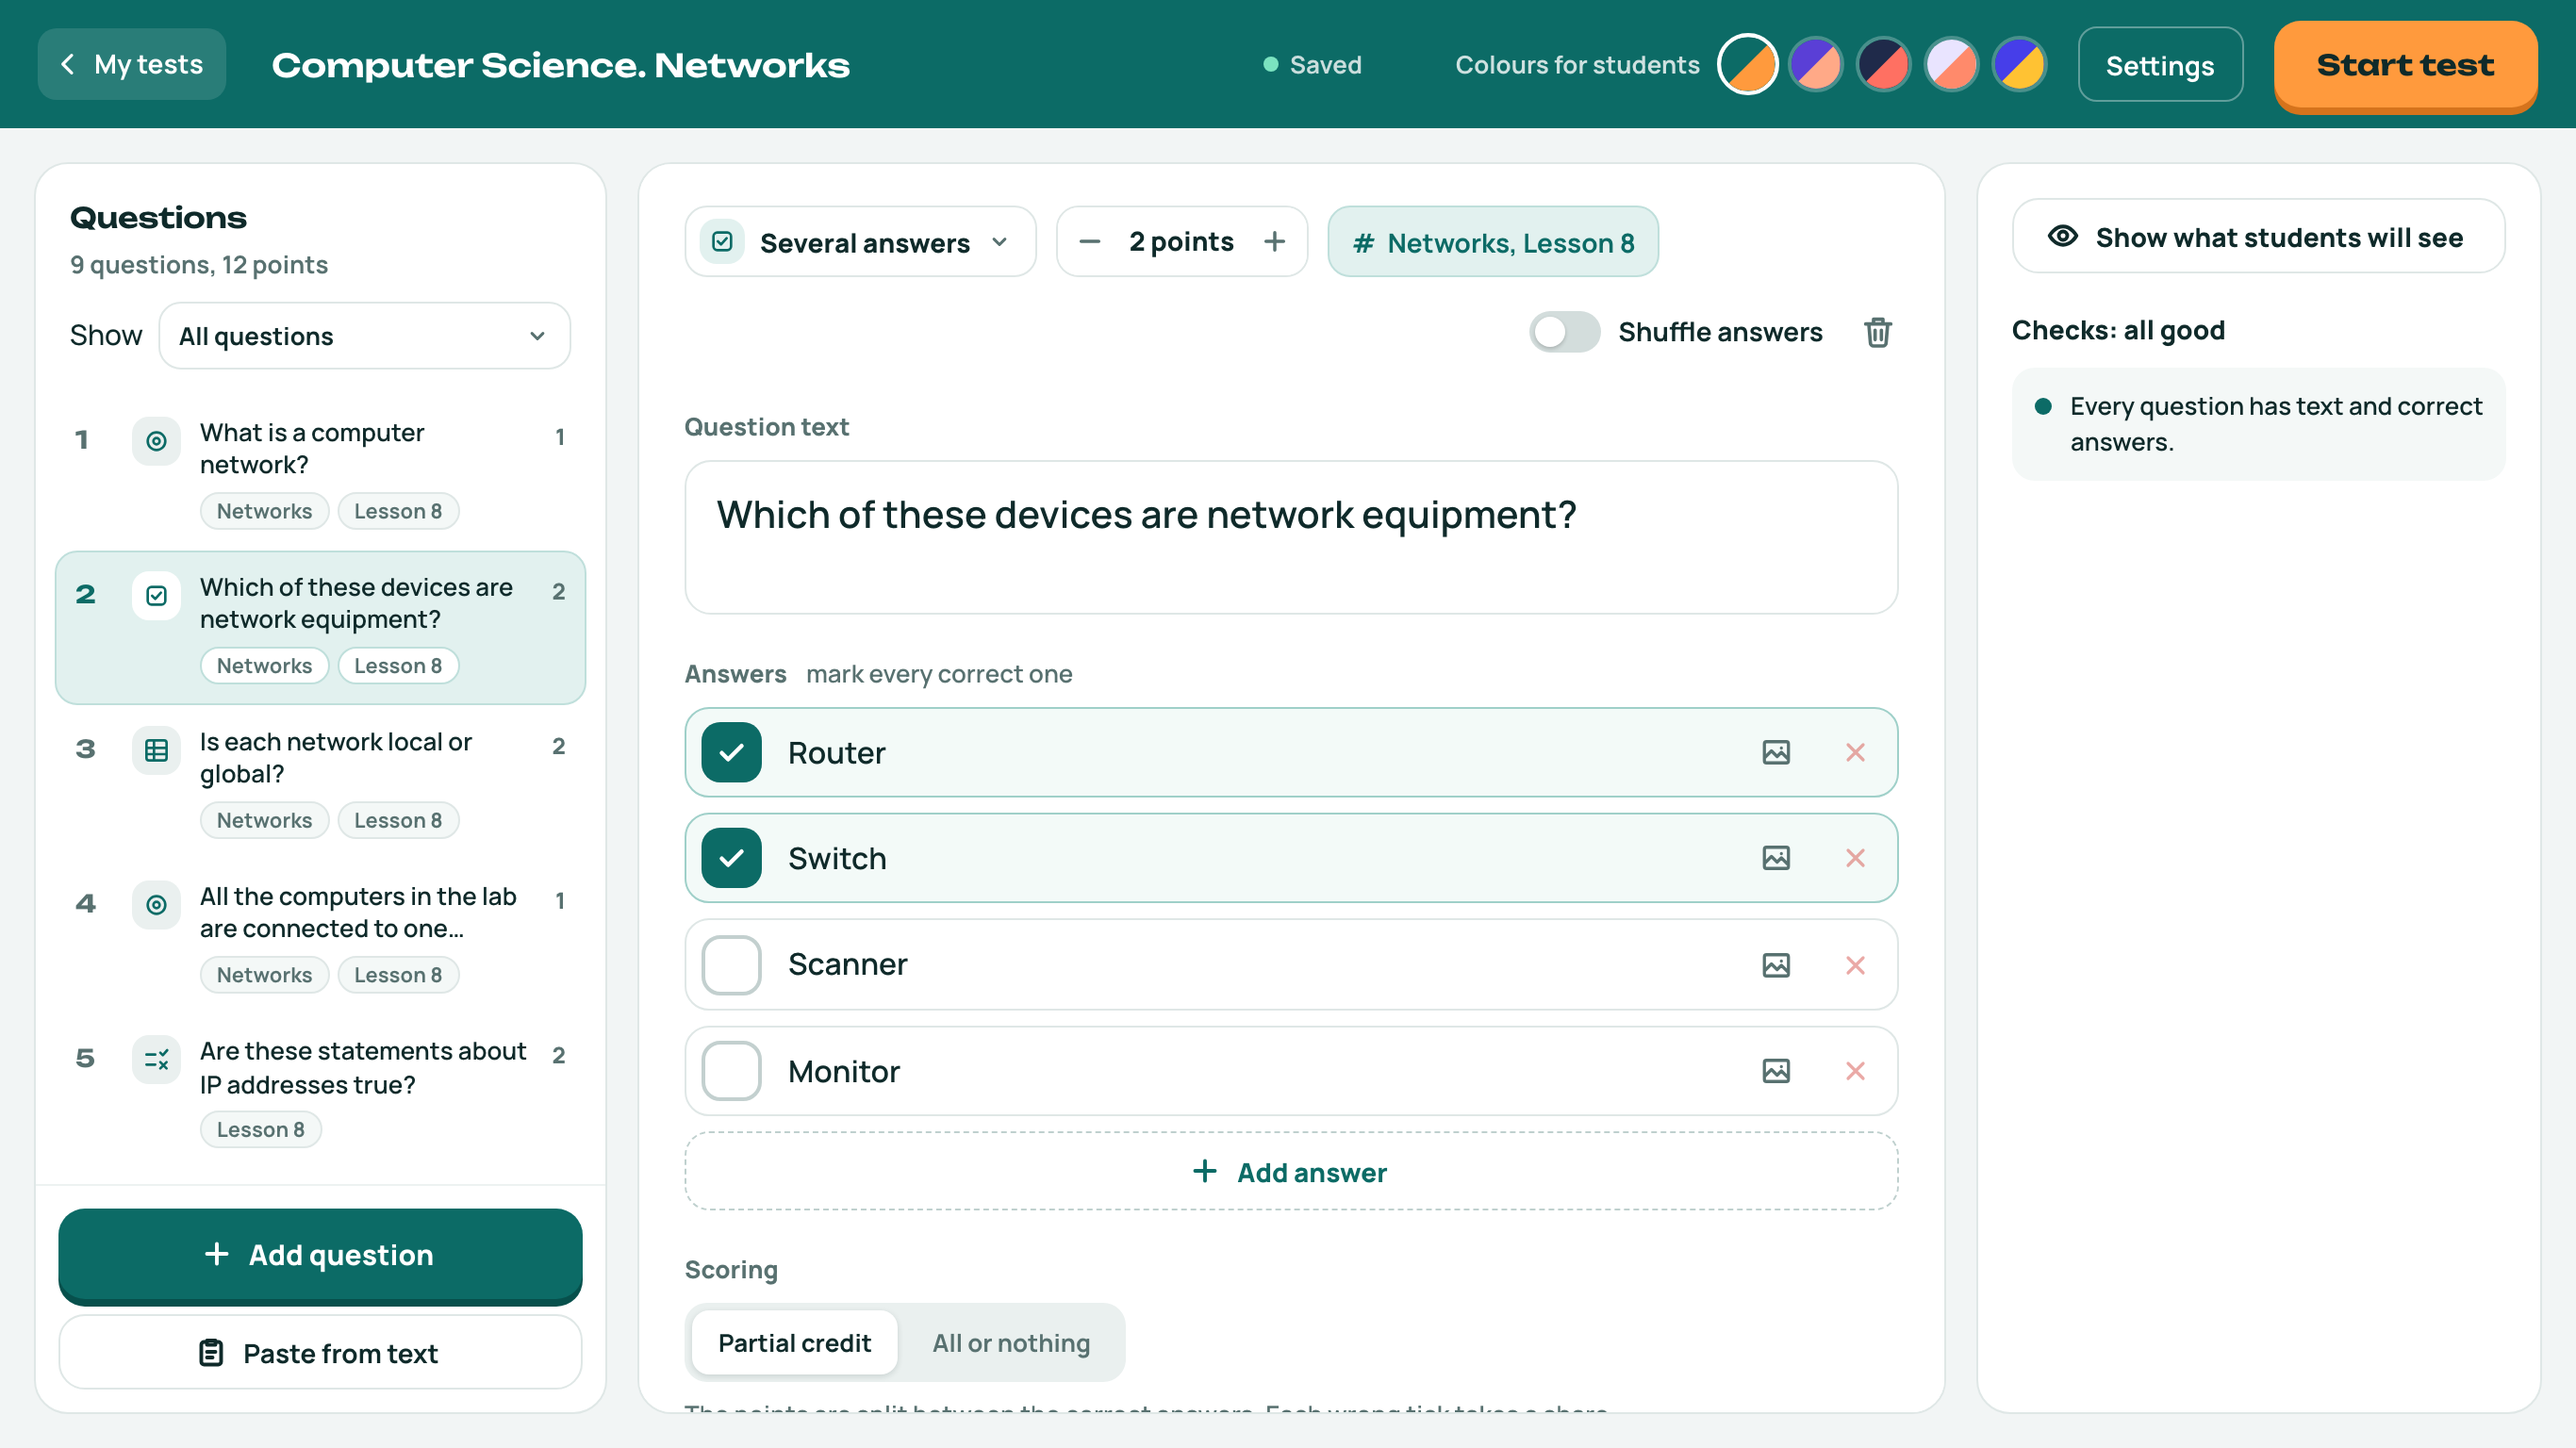
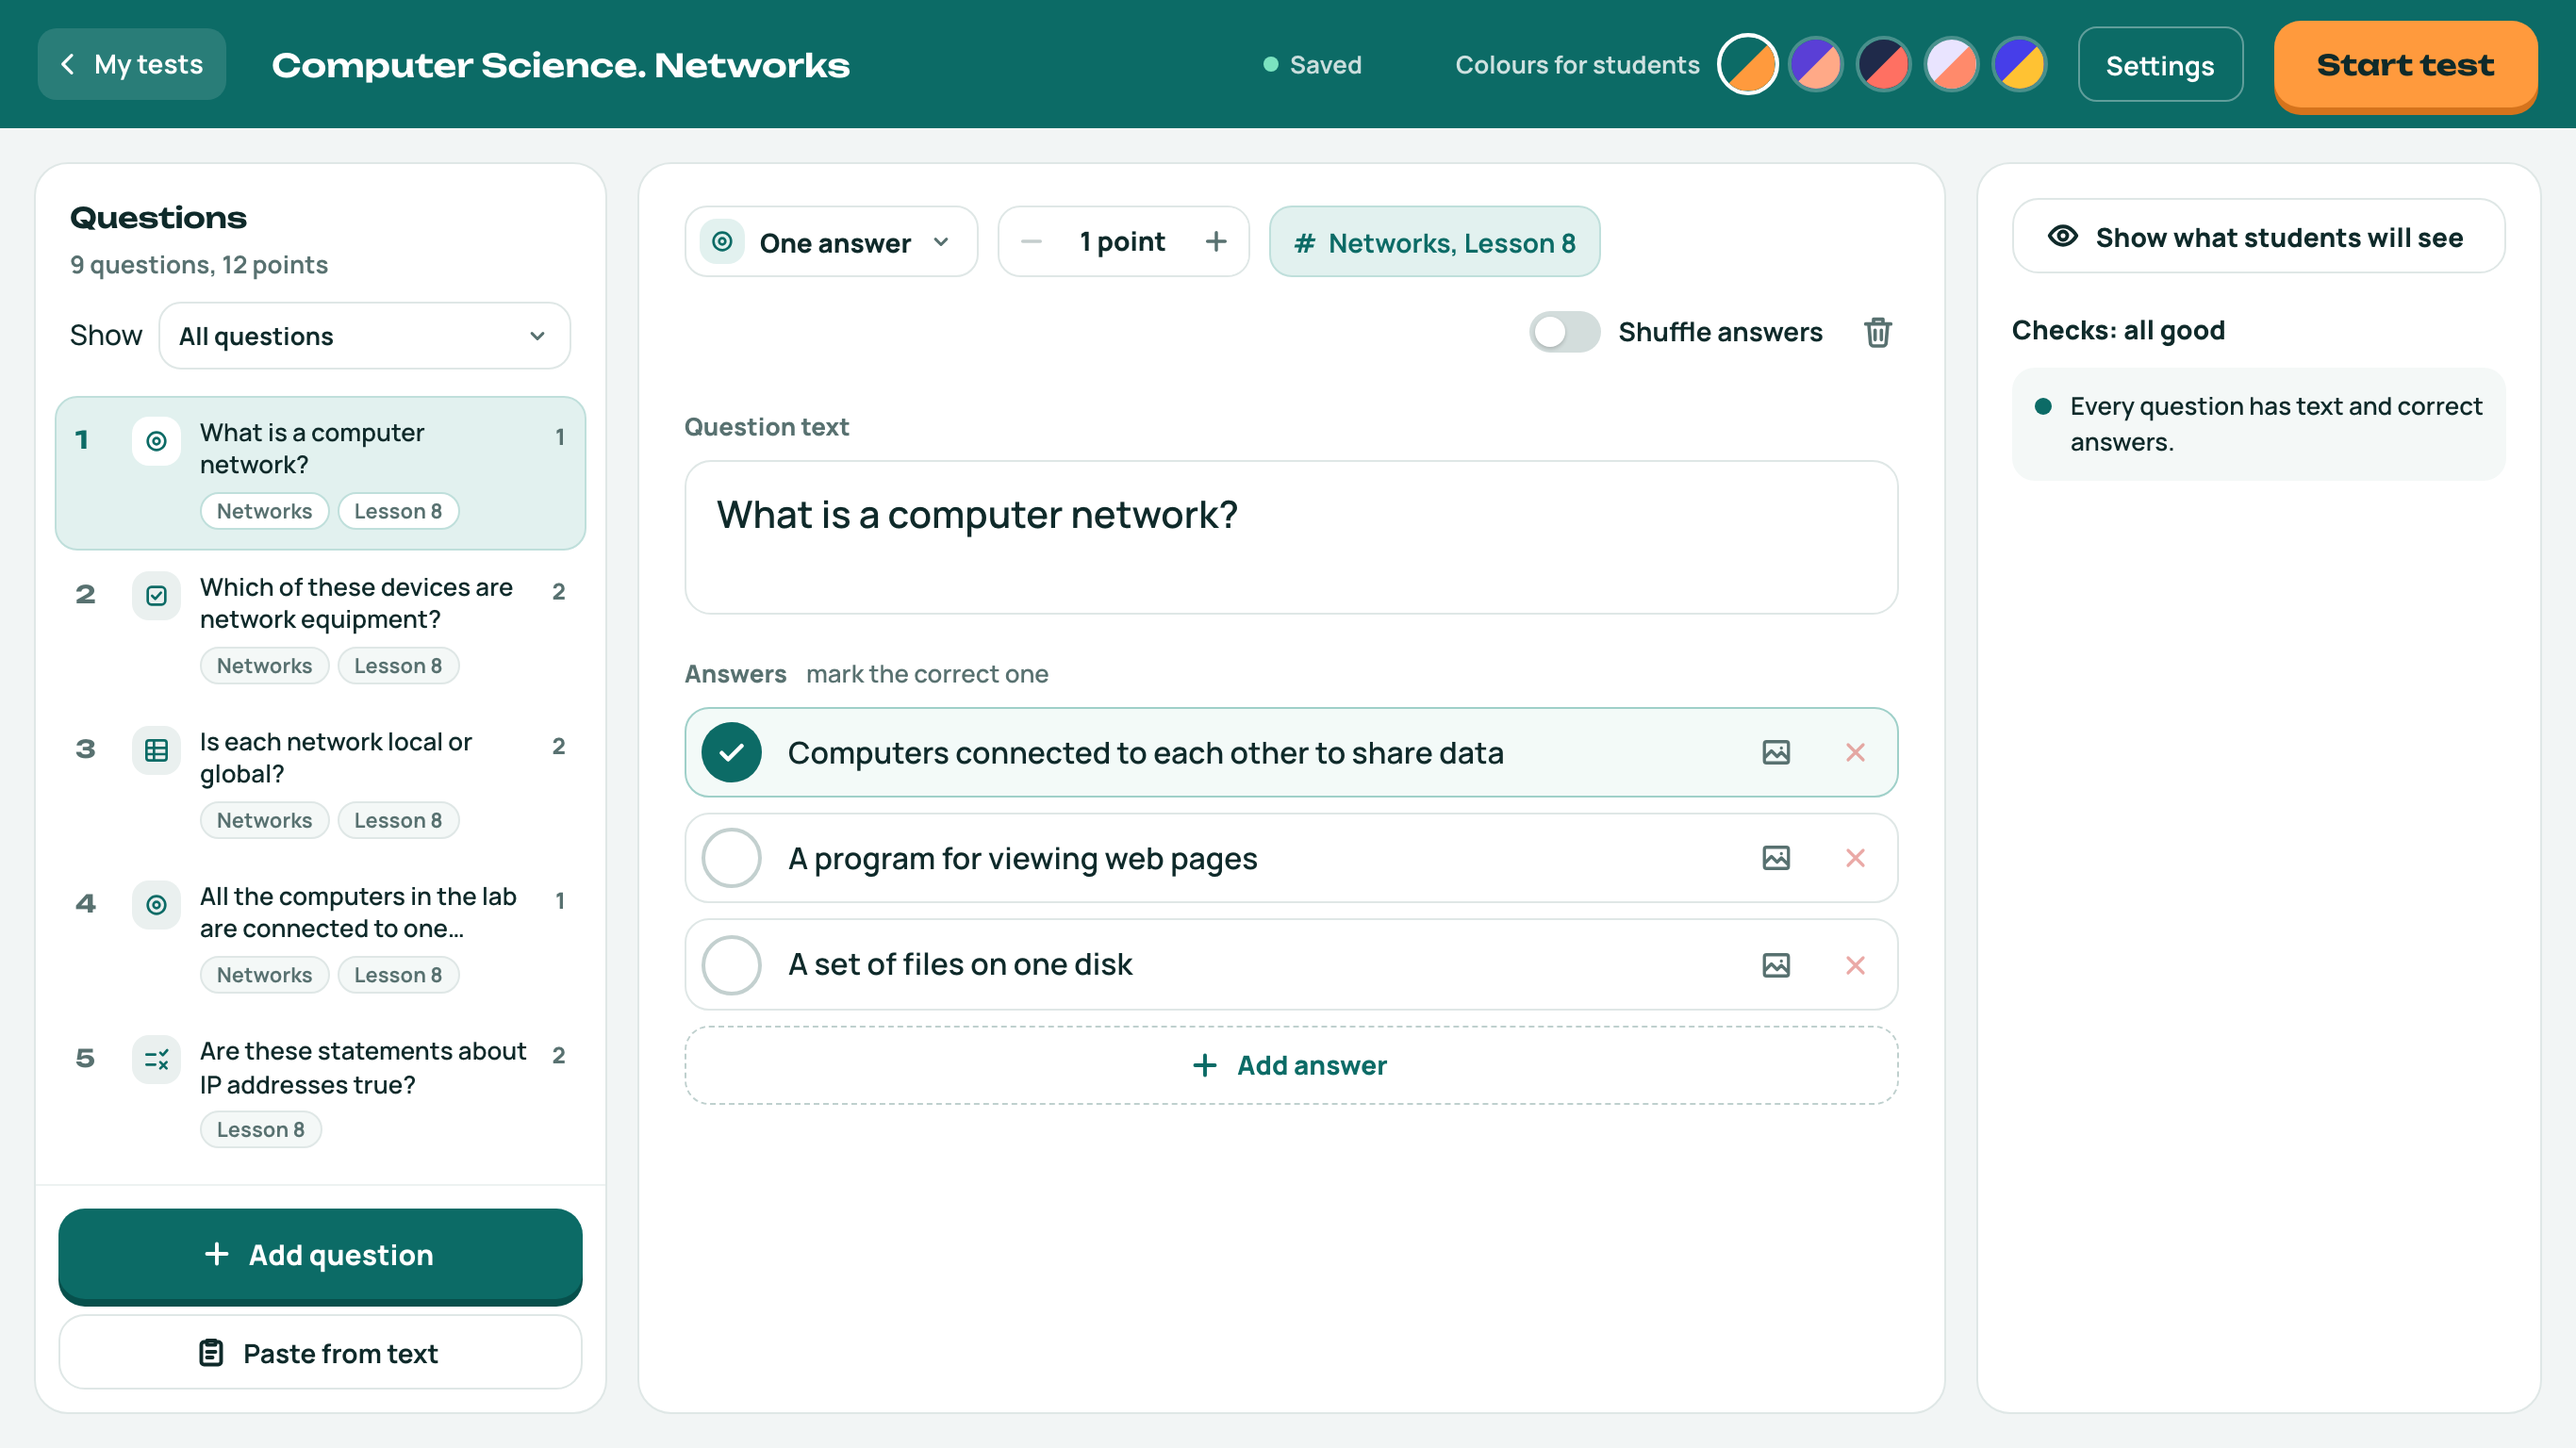
fix(site): believable times, unclipped builder, 7-B in English shots

diff --git a/web/e2e/shots/site.shots.ts b/web/e2e/shots/site.shots.ts
@@ -3,9 +3,11 @@
  * app in each language into web/site/src/assets/shots/<lang>/. Six students
  * of class 7-Б take a nine-question test on networks: the live journal is
  * taken with one finished, one offline and the rest part-way through, the
- * results once all have finished. The students answer in Ukrainian, since
- * they join before the teacher app switches language; only the teacher's
- * screens and the test's content follow the capture's language.
+ * results once all have finished. The six students' own sheets stay in
+ * Ukrainian, since they join before the teacher app switches language and
+ * none of them is captured. The teacher's screens, the test, the class name
+ * and the join screen, through the computer's remembered `klats.lang`,
+ * follow the capture's language.
  */
 import { join } from "node:path";
 import type { SittingInfo } from "@klats/shared/generated/wire.ts";
@@ -149,10 +151,18 @@ const exact = (id: string, tags: string[], text: string, value: number) =>
     number: { mode: "exact", value, tolerance: 0, min: 0, max: 0 },
   });
 
-/** The same test in each language. */
-const TESTS: Record<Lang, { title: string; items: Item[] }> = {
+/** The test and class of one language's captures. */
+interface Content {
+  title: string;
+  className: string;
+  items: Item[];
+}
+
+/** The same test and class in each language. */
+const TESTS: Record<Lang, Content> = {
   uk: {
     title: "Інформатика. Мережі",
+    className: "7-Б",
     items: [
       choice("q1", ["Мережі", "Урок 8"], "Що таке комп’ютерна мережа?", [
         "*Комп’ютери, з’єднані між собою для обміну даними",
@@ -230,6 +240,7 @@ const TESTS: Record<Lang, { title: string; items: Item[] }> = {
   },
   en: {
     title: "Computer Science. Networks",
+    className: "7-B",
     items: [
       choice("q1", ["Networks", "Lesson 8"], "What is a computer network?", [
         "*Computers connected to each other to share data",
@@ -308,15 +319,29 @@ const TESTS: Record<Lang, { title: string; items: Item[] }> = {
  * six rows. `pc` labels the student's computer; `plan` marks each answer
  * right (+) or wrong (-), most mistakes falling on «Урок 9» so the scores
  * per tag differ; `live` is how many are answered when the live journal is
- * taken, and `away` loses the network after them.
+ * taken, and `away` loses the network after them. `time` is the time the
+ * results show, as m:ss.
  */
 const STUDENTS = [
-  { name: CLASS[0], pc: "3", plan: "+++++++-+", live: 9 },
-  { name: CLASS[2], pc: "12", plan: "++-++-+-+", live: 3, away: true },
-  { name: CLASS[1], pc: "7", plan: "+-++--+-+", live: 5 },
-  { name: "Мельник Софія", pc: "5", plan: "+++++++++", live: 6 },
-  { name: CLASS[3], pc: "9", plan: "-+++++-++", live: 4 },
-  { name: "Шевченко Андрій", pc: "14", plan: "++-+++--+", live: 2 },
+  { name: CLASS[0], pc: "3", plan: "+++++++-+", live: 9, time: "14:52" },
+  {
+    name: CLASS[2],
+    pc: "12",
+    plan: "++-++-+-+",
+    live: 3,
+    away: true,
+    time: "31:37",
+  },
+  { name: CLASS[1], pc: "7", plan: "+-++--+-+", live: 5, time: "27:05" },
+  { name: "Мельник Софія", pc: "5", plan: "+++++++++", live: 6, time: "22:18" },
+  { name: CLASS[3], pc: "9", plan: "-+++++-++", live: 4, time: "25:43" },
+  {
+    name: "Шевченко Андрій",
+    pc: "14",
+    plan: "++-+++--+",
+    live: 2,
+    time: "29:10",
+  },
 ];
 
 /** Answers questions `from` up to `to` as `plan` says, handing the test in after the last. */
@@ -354,7 +379,7 @@ const shot = (page: Page, lang: Lang, name: string) =>
 
 for (const lang of ["uk", "en"] as const) {
   test(`the site's screenshots in ${lang}`, async ({ klats }) => {
-    const { title, items } = TESTS[lang];
+    const { title, className, items } = TESTS[lang];
     const locale = { locale: lang };
     const teacher = await klats.teacher("/live");
     const origin = new URL(teacher.url()).origin;
@@ -376,7 +401,7 @@ for (const lang of ["uk", "en"] as const) {
     );
     const cls = await api<{ id: string }>("POST", "/api/classes", {
       id: "",
-      name: "7-Б",
+      name: className,
       students: STUDENTS.map(({ name }) => ({ id: "", name })),
     });
     const { code, assignmentId } = await api<SittingInfo>(
@@ -460,14 +485,30 @@ for (const lang of ["uk", "en"] as const) {
     await expect(
       teacher.getByRole("heading", { name: m.results_tags({}, locale) }),
     ).toBeVisible();
+    // shortcut: the server times real join→finish, which an automated run makes seconds long; rewritten for the picture only. Upgrade: a server clock seam, if shots ever need real durations.
+    const times = Object.fromEntries(STUDENTS.map((s) => [s.name, s.time]));
+    const rewritten = await teacher.evaluate((times) => {
+      let n = 0;
+      for (const tr of document.querySelectorAll(".j-table tbody tr")) {
+        const name = tr.querySelector(".r-open")?.textContent ?? "";
+        // A row's number cells are its points, then its time.
+        const cell = tr.querySelectorAll("td.r-col-num")[1];
+        if (cell && times[name]) {
+          cell.textContent = times[name];
+          n++;
+        }
+      }
+      return n;
+    }, times);
+    expect(rewritten).toBe(STUDENTS.length);
     await shot(teacher, lang, "results");
 
-    await teacher.goto(`${origin}/tests/${testId}?q=q2`);
+    await teacher.goto(`${origin}/tests/${testId}?q=q1`);
     await expect(
       teacher.getByRole("textbox", {
         name: m.builder_question_text({}, locale),
       }),
-    ).toContainText(items[1].question.title);
+    ).toContainText(items[0].question.title);
     await shot(teacher, lang, "builder");
 
     // A lab computer opens the student app in the language of its last test.

diff --git a/web/e2e/shots.config.ts b/web/e2e/shots.config.ts
@@ -1,12 +1,14 @@
 import { defineConfig } from "@playwright/test";
 
 // The site's screenshots of the app, taken by `make site-shots`. The suite's
-// config matches only *.spec.ts, so it never runs these. The shared global
-// setup builds a dev binary, which never checks for updates, so no update
-// notice shows in a capture.
+// config keeps Playwright's default match, *.spec.ts and *.test.ts, so it
+// never runs these. The shared global setup builds a dev binary, which never
+// checks for updates, so no update notice shows in a capture.
 export default defineConfig({
   testDir: "./shots",
   testMatch: "*.shots.ts",
+  // A run empties its output folder first; this one is not the suite's.
+  outputDir: "test-results/shots",
   globalSetup: "./global-setup.ts",
   retries: 0,
   // A run waits out the server's 15 s offline threshold, in each language.
